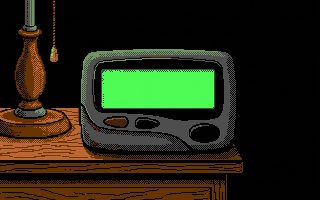
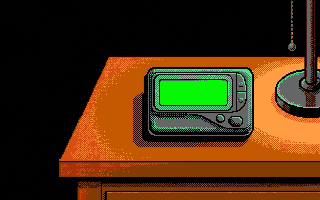
feat(intro): round-3 art — the dark shot is the bedroom unlit with the title dim on its wall; pager hand from the left; text fitted to the smaller LCD
- A_room_dark, B_nightstand, B_arm replaced; darkTitle on; LCD and bedroom positions in the manifest
- marquee: double-size dots on a small LCD (about five letters showing), message shot 10 s

Claude-Session: https://claude.ai/code/session_01KRJMM4tMmN6TsQ7ggh1rTa

diff --git a/tests/intro-text.test.js b/tests/intro-text.test.js
@@ -34,11 +34,17 @@ test('drawLcd clips to the LCD and restores', () => {
   assert.deepEqual(log, ['save', ['rect', 92, 62, 136, 36], 'clip', 'restore']);
 });
 import { lcdPages, marqueeScale } from '../js/intro/pager.js';
-test('marquee text is small enough to show at least eight characters at once', () => {
-  assert.equal(marqueeScale({ x: 103, y: 71, w: 110, h: 36 }), 2);        // the real pager plate
+test('marquee text: eight characters at once where the LCD allows, but never smaller than double size if five fit', () => {
   assert.equal(marqueeScale({ x: 92, y: 62, w: 136, h: 36 }), 2);
-  assert.equal(marqueeScale({ x: 0, y: 0, w: 40, h: 36 }), 1);
-  assert.equal(marqueeScale({ x: 0, y: 0, w: 600, h: 36 }), 4);        // never taller than the LCD
+  assert.equal(marqueeScale({ x: 161, y: 82, w: 65, h: 22 }), 2);        // the real pager: a small screen, so bigger dots, fewer letters
+  assert.equal(marqueeScale({ x: 0, y: 0, w: 30, h: 36 }), 1);
+  assert.equal(marqueeScale({ x: 0, y: 0, w: 600, h: 36 }), 4);          // never taller than the LCD
+  assert.equal(marqueeScale({ x: 0, y: 0, w: 65, h: 12 }), 1);
+});
+test('both LCD strings fit the real pager without scrolling off its edge when static', () => {
+  const lcd = { x: 161, y: 82, w: 65, h: 22 };
+  assert.deepEqual(lcdPages('Help!', lcd), { scale: 2, pages: [['Help!']] });
+  const p = lcdPages(MSG, lcd); assert.equal(p.pages.flat().join(' ').replace(/\s+/g, ' '), MSG);
 });
 test('static paging: one sentence per page, word-wrapped, at the largest scale that fits', () => {
   const p = lcdPages(MSG, { x: 92, y: 62, w: 136, h: 36 });

diff --git a/tests/e2e/intro.test.js b/tests/e2e/intro.test.js
@@ -136,15 +136,8 @@ test('the bedroom shot shows the title and walks the hero out', async () => {
   await page.waitForFunction(() => window.__oq.intro.hero?.outfit === 'hoodie', null, { timeout: 5000 });
   assert.equal((await intro(page)).hero.pile, false);
   assert.notEqual(await grab(pileBox), withPile, 'the clothes are still on the floor');
-  // the hero's item waits on the dresser and is taken once they are dressed, Sierra inventory style
-  const itemBox = { x: m.item.x, y: m.item.y - 12, w: 10, h: 12 };
-  const dressed = await intro(page);
-  if (!dressed.hero.holding) {
-    const onDresser = await grab(itemBox);
-    await page.waitForFunction(() => window.__oq.intro.hero?.holding === true, null, { timeout: 3000 });
-    assert.notEqual(await grab(itemBox), onDresser, 'the item is still on the dresser');
-  }
-  await page.waitForFunction(() => window.__oq.intro.hero?.holding === true, null, { timeout: 3000 });
+  // the laptop is taken once they are dressed, Sierra inventory style (the plate cut is checked in its own test)
+  await page.waitForFunction(() => window.__oq.intro.hero?.holding === true, null, { timeout: 4000 });
   // out through the door: it opens, the hero is gone, then the next screen
   await page.waitForFunction(() => window.__oq.intro.hero?.doorOpen === true, null, { timeout: 6000 });
   await page.waitForFunction(() => window.__oq.intro.hero?.doorOpen === true && window.__oq.intro.hero.visible === false, null, { timeout: 3000 });

diff --git a/js/intro/pager.js b/js/intro/pager.js
@@ -24,8 +24,12 @@ export function drawLcd(ctx, lcd, text, x, scale, color = '#0F200F') {
   ctx.restore();
 }
 
-/** Scale for scrolling text: small enough that at least eight characters are on the LCD at once. */
-export function marqueeScale(lcd) { return Math.max(1, Math.min(lcdScale(lcd), Math.floor((lcd.w - 4) / 48))); }
+/** Scale for scrolling text: small enough for eight characters at once — but on a small LCD, double-size dots
+ *  with five characters showing read better than single-size ones. Never taller than the LCD. */
+export function marqueeScale(lcd) {
+  const w = lcd.w - 4;
+  return Math.max(1, Math.min(lcdScale(lcd), Math.max(Math.floor(w / 48), Math.min(2, Math.floor(w / 30)))));
+}
 
 function wrap(sentence, cols) {
   const lines = []; let line = '';

diff --git a/js/intro/timeline.js b/js/intro/timeline.js
@@ -11,7 +11,7 @@ export const SHOTS = [
   { id: 'asleep', ms: 3000, image: 'C_face_asleep', alt: 'C_eye_crack', altAt: 1800 },
   { id: 'arm', ms: 1500, image: 'B_arm' },
   { id: 'lit', ms: 2000, image: 'C_awake', alt: 'C_awake_lit', flash: 'alt' },
-  { id: 'message', ms: 8000, image: 'B_nightstand', lcd: 'marquee', text: CTO },
+  { id: 'message', ms: 10000, image: 'B_nightstand', lcd: 'marquee', text: CTO },
   { id: 'misery', ms: 2000, image: 'C_misery' },
   { id: 'wide', ms: 1400, image: 'A_room_dark', title: 'dim' },                       // back to the wide dark room, steady in the pager's glow…
   { id: 'bedroom', ms: 15000, image: 'D_bedroom_vga', hero: true, clickAt: 0 },   // …click: the light is on, and this is the room

diff --git a/tests/intro-timeline.test.js b/tests/intro-timeline.test.js
@@ -3,8 +3,8 @@ import { SHOTS, frameAt, nextShot, TOTAL_MS, HERO_STEPS, heroAt, FLASH_MS } from
 
 test('shots are the storyboard, in order, with its timings', () => {
   assert.deepEqual(SHOTS.map((s) => s.id), ['dark', 'help', 'asleep', 'arm', 'lit', 'message', 'misery', 'wide', 'bedroom']);
-  assert.deepEqual(SHOTS.map((s) => s.ms), [3000, 2500, 3000, 1500, 2000, 8000, 2000, 1400, 15000]);
-  assert.equal(TOTAL_MS, 38400);
+  assert.deepEqual(SHOTS.map((s) => s.ms), [3000, 2500, 3000, 1500, 2000, 10000, 2000, 1400, 15000]);
+  assert.equal(TOTAL_MS, 40400);
   assert.equal(SHOTS[1].text, 'Help!');
   assert.equal(SHOTS[5].text, 'Backend is down. Front end is down. Database is down. Get in here! -CTO');
 });

diff --git a/index.html b/index.html
@@ -23,6 +23,6 @@
   <div class="phone" aria-hidden="true"></div>
   <div>Turn your phone sideways to play</div>
 </div>
-<script type="module" src="js/game.js?v=13"></script>
+<script type="module" src="js/game.js?v=14"></script>
 </body>
 </html>

diff --git a/docs/superpowers/specs/2026-11-10-sci-adventure-design.md b/docs/superpowers/specs/2026-11-10-sci-adventure-design.md
@@ -193,7 +193,7 @@ The intro follows `docs/intro-storyboard.md` (Rick, 2026-11-11), which supersede
 | 3 | Sleepy face, drool; a bleary eye cracks open | plate C → C with one eyelid changed | one cut | 3 |
 | 4 | Arm at the pager | plate B with an arm added | nothing | 1.5 |
 | 5 | Face looking at the pager, lit by its flashing light | C, eyes half open | two-state green palette swap | 2 |
-| 6 | Pager, scrolling: **Backend is down. Front end is down. Database is down. Get in here! -CTO** | plate B | marquee | 8 |
+| 6 | Pager, scrolling: **Backend is down. Front end is down. Database is down. Get in here! -CTO** | plate B | marquee | 10 |
 | 7 | Misery and hopelessness | C, brows and mouth changed | nothing | 2 |
 | 8 | Back to the wide dark room, steady in the pager's glow (Rick, 2026-11-11: the lamp close-up is cut — the light coming on *is* the cut to shot 9) | plate A | none | 1.4 |
 | 9 | Click — the light is on: the VGA bedroom with the hero already sitting up in bed (never an empty bed), **Observability Quest I: So you want to be on-call?** on the wall; theme; the hero gets up in pyjamas; their jeans, Honeycomb hoodie and shoes lie on the floor (drawn in their own colours) and vanish from it as the hero flashes into them; the item they carry waits on the dresser and jumps to their hand once they are dressed, like an inventory pick-up; a dresser stands half open with clothes spilling out; the hero walks to the bedroom door, it opens, they go through, it shuts | plate D (+ optional door-open edit) + hero sprite | sprite animation; the door is a two-still cut; the room holds ~3 s on the title first, and every action has a sound | 15 |

diff --git a/ASSET_PROMPTS.md b/ASSET_PROMPTS.md
@@ -183,5 +183,16 @@ plus Rick's direction in the session. Every frame is an edit of the one before i
 Not yet signed off by Rick. The clothes on the floor, the Honeycomb mark on the hoodie, and any carried item other than
 a laptop are drawn by the game.
 
-Round 3 (pending): `A_room_dark` remade as the bedroom with the light off (an edit of `D_bedroom_vga`), and a new
-`B_nightstand` / `B_arm` with a smaller pager and the hand coming in from the left — `briefs/intro-round3-agent-brief.md`.
+### Round 3 (2026-11-11)
+
+Gemini API `gemini-3.1-flash-image`, 3:2, 1K, on Rick's personal account, following `briefs/intro-round3-agent-brief.md`.
+Exact text in `scratch/intro_gen/gen.py` (`FULL['A_room_dark']`, `FULL['B_arm']`, `P['B_nightstand']` and its `EXTRA`).
+Earlier versions are in `scratch/intro_gen/raw/tries/` (`*_round1`).
+
+| File | Built on | Tries → kept | Notes |
+|---|---|---|---|
+| `A_room_dark` | `D_bedroom_vga` | 3 → t3 | The bedroom with the light off; lines up with the lit room at zero offset. Prompt plus one sentence keeping the wall plain. |
+| `B_nightstand` | — (plate) | 5 → t7, Rick's pick | Smaller pager, lamp at the right. LCD is about 67×23 clean green (brief asked 80×24); the nightstand looks lamp-lit; cyan/purple rim on the pager. Tries 9–10 added a size sentence. |
+| `B_arm` | new `B_nightstand` | 3 → t4 | Arm from the left, hand cupping the pager's left end; LCD untouched. |
+
+`B_lamp` is retired (not generated again, not built).

diff --git a/docs/backlog.md b/docs/backlog.md
@@ -90,4 +90,4 @@ block on. Test the restyle under `.hs-form` on a real phone.
 - Walk speed is now 110 px/s in rooms (a full room in ~3 s) and 60 px/s in the intro. The spec's "≤ 1.2 s per room" came from booth pacing; revisit if three seconds per crossing makes a three-chapter run too long.
 - Everyone takes the painted laptop from the dresser (inventory). The held-item option is gone (Rick, 2026-11-11: "they all look bad"); nothing is drawn in the hero's hand. `item` in the overrides is unused.
 - Head redraw 2026-11-11 (awaiting Rick's eye): round glasses frames, mohawk as a flat ridge on a buzzed round skull, standard cut inside the head's outline, shoulder/long hair as a solid mass behind the head with locks in front of the shoulders, ears joined to the face.
-- Round 3 art (`briefs/intro-round3-agent-brief.md`): the dark wide shot should be the bedroom with the light off, so the reveal is the same room; pager hand from the left with believable sizes. A new pager plate means a new LCD rectangle — rebuild and check the text still fits.
+- Round 3 art landed 2026-11-11: the dark wide shot is the bedroom unlit (`darkTitle` on), pager hand from the left. The new pager's LCD is small (65×22 clean), so the message scrolls at double-size dots with about five letters showing, over 10 s; a pager plate with a wider LCD would read better.
